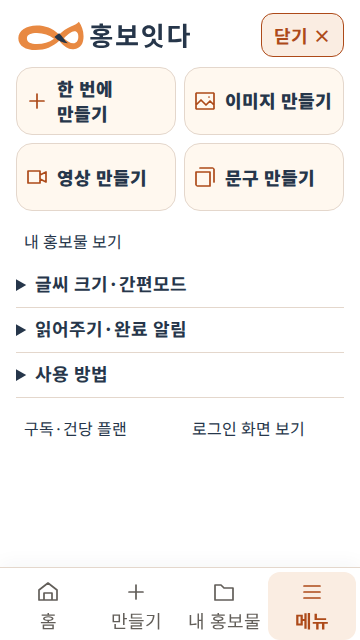
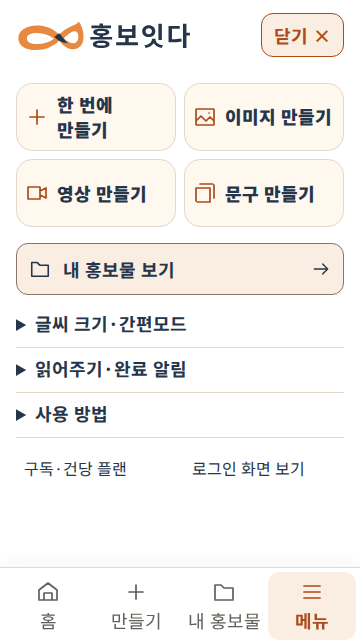
fix(ui): clarify menu grouping and saved-output action

diff --git a/ad_prototype/src/focus-review.css b/ad_prototype/src/focus-review.css
@@ -340,7 +340,7 @@ body { background:var(--color-brand-soft); }
 
 /* Keep every menu destination in view; expanded guidance can still scroll. */
 .prototype-app.studio-shell .unified-menu-panel { padding:12px 16px calc(88px + env(safe-area-inset-bottom)); }
-.studio-shell .unified-menu-panel .studio-menu-heading { margin-bottom:8px; }
+.studio-shell .unified-menu-panel .studio-menu-heading { margin-bottom:24px; }
 .studio-shell .unified-menu-panel .studio-panel-title { margin-bottom:8px; font-size:22px; line-height:1.4; }
 .studio-shell .unified-menu-panel .menu-creation-options { display:grid; grid-template-columns:repeat(2,minmax(0,1fr)); gap:8px; }
 .studio-shell .unified-menu-panel .menu-creation-options .studio-menu-row {
@@ -354,6 +354,14 @@ body { background:var(--color-brand-soft); }
 .studio-shell .unified-menu-panel .studio-menu-footer { margin-top:8px; padding-top:0; border-top:0; gap:8px; }
 .studio-shell .unified-menu-panel > .studio-menu-footer:last-of-type { grid-template-columns:repeat(2,minmax(0,1fr)); }
 .studio-shell .unified-menu-panel .studio-menu-footer > button { min-height:44px; padding:8px; font-size:16px; line-height:1.4; }
+.studio-shell .unified-menu-panel .menu-saved-entry { margin-top:16px; margin-bottom:8px; }
+.studio-shell .unified-menu-panel .menu-saved-entry > .menu-saved-link {
+  display:grid; grid-template-columns:24px minmax(0,1fr) 20px; align-items:center; gap:10px;
+  min-height:52px; padding:10px 12px; border:1px solid var(--color-control); border-radius:var(--radius-control);
+  background:var(--color-brand-soft); color:var(--color-ink); text-align:left; font-size:18px; font-weight:700; line-height:1.4;
+}
+.studio-shell .unified-menu-panel .menu-saved-link > svg { flex-shrink:0; }
+.studio-shell .unified-menu-panel .menu-saved-link:hover { background:var(--color-peach); border-color:var(--color-brand); }
 .studio-shell .unified-menu-panel .service-menu-section { padding:0; }
 .studio-shell .unified-menu-panel .service-menu-section summary { min-height:44px; padding:8px 0; font-size:18px; line-height:1.4; }
 .studio-shell .unified-menu-panel .service-menu-section[open] { padding-bottom:12px; }

diff --git a/ad_prototype/src/StudioScreens.tsx b/ad_prototype/src/StudioScreens.tsx
@@ -498,8 +498,12 @@ export function StudioShell({
                   </button>
                 ))}
                 </div>
-                <div className="studio-menu-footer">
-                  <button onClick={() => navigate("records")}>내 홍보물 보기</button>
+                <div className="studio-menu-footer menu-saved-entry">
+                  <button className="studio-secondary menu-saved-link" onClick={() => navigate("records")}>
+                    <StudioIcon name="folder" size={22} />
+                    <span>내 홍보물 보기</span>
+                    <StudioIcon name="arrow" size={20} />
+                  </button>
                 </div>
                 <details className="service-menu-section">
                   <summary>글씨 크기·간편모드</summary>

diff --git a/ad_prototype/feedback/2026-10-14-first-screen-fit.md b/ad_prototype/feedback/2026-10-14-first-screen-fit.md
@@ -29,3 +29,26 @@
 스크롤을 막거나 전체 화면을 transform으로 축소하지 않는다. 긴 소개·홍보 문구, 많은 저장 결과, 펼친 안내, 글자 확대·가상 키보드처럼 물리적으로 한 화면에 담기 어려운 경우에는 필요한 만큼 자연스럽게 스크롤할 수 있다. 실물 휴대전화·Safari/VoiceOver를 검증했다고 주장하지 않는다.
 
 [검증 화면](../docs/review/evidence-20261014-screen-fit/README.md)을 참조한다. 상세 측정은 작업 공간의 `output/final-integration-review/screen-fit/` 및 `home-fit-agent/after-final/`에 기록했다. 검증 화면은 문서 폴더에만 두며 실행 앱의 public 자산에는 넣지 않는다. 최종 게시·병합·배포 상태는 GitHub PR과 사용자 보고에서 확인한다.
+
+## 메뉴 최종 휴리스틱 검토
+
+같은 날 추가 요청에 따라 로고·닫기 영역 아래 간격을 8→24px로 조정했다. `내 홍보물 보기`는 폴더 아이콘·문구·화살표가 있는 별도 전체 너비 버튼으로 바꿨다. 높이는52px, 글씨는18px이며 기존 색상·테두리·아이콘을 재사용한다. 화면이나 메뉴 목적지는 추가하지 않았다.
+
+실제 브라우저 화면에 Nielsen의10개 휴리스틱을 적용한 검토이며 사용자 인터뷰나 실제 전문가10명의 토론이 아니다.
+
+| 검토 원칙 | 관찰과 확인 결과 |
+| --- | --- |
+| 현재 상태의 표시 | 하단 메뉴의 선택 상태, 생성 대기·성공·실패 표시는 기존 여정 검사에서 유지됨 |
+| 익숙한 표현 | `내 홍보물 보기`에 폴더 아이콘과 이동 화살표를 함께 표시하여 저장 결과 진입임을 드러냄 |
+| 사용자 제어 | Escape로 닫은 뒤 원래 메뉴 버튼으로 초점 복귀, 저장 목록에 갔다가 돌아와도 사진·상품·소개 초안 유지 |
+| 일관성과 표준 | 기존 버튼·색상·아이콘과 같은 규격. 생성 카드와 저장 목록 버튼은16px 간격으로 구분 |
+| 오류 예방 | 저장 버튼 가운데·양쪽 끝 모두 같은 동작. 필수 상품 이름과 출력 선택 검증은14개 여정에서 통과 |
+| 기억보다 인식 | 독립된 테두리와 배경이 있는328px 너비 바 전체를 클릭 가능. 작은 텍스트만 눌러야 하는 상태를 해소 |
+| 효율과 접근성 | 터치 높이52px, Tab6회로 진입·Enter로 목록 열기, 키보드 초점 테두리3px 확인 |
+| 절제된 화면 | 로고와 첫 카드 사이 실제24px. 360×640에서도 모든 기본 메뉴가 하단 내비게이션 위에 들어옴 |
+| 오류 회복 | 생성 실패·재시도, 입력 보존, 선택한 파일만 생성하는 기존 분리 테스트 통과 |
+| 도움말 | 사용 방법·글씨 설정은 접힌 상태로 접근 가능. 필요한 안내를 삭제하지 않고 주요 동작 먼저 표시 |
+
+텍스트 대비10.69:1, 버튼 테두리 대비3.85:1을 렌더된 색상으로 측정했다. 저장 목록의 빈 상태를 확인한 뒤 실제 Canvas·MediaRecorder로 한 번 생성해3개 항목과 저장 영상 재열기를 확인했다. 페이지 오류는0개다. 모의 응답·유료 API 호출을 정상 앱에 추가하지 않았다.
+
+추가 변경 이후 TypeScript·Vite 빌드, `verify:screen-fit`14개 프로필·118개 화면 검사, `verify:mobile-flow`14개 시나리오와 문서 링크·diff 검사를 재실행했다. 검증 자료의 메뉴 이미지와 측정값을 갱신했다. 실물 휴대전화와 화면 읽기 프로그램의 동작은 미검증이며, AI·인증·클라우드 보관·공유 연동은 기존 체험형 범위 그대로다. 구현 가능한 높은 우선순위의 메뉴 문제는 이번 검토에서 남지 않았다.
